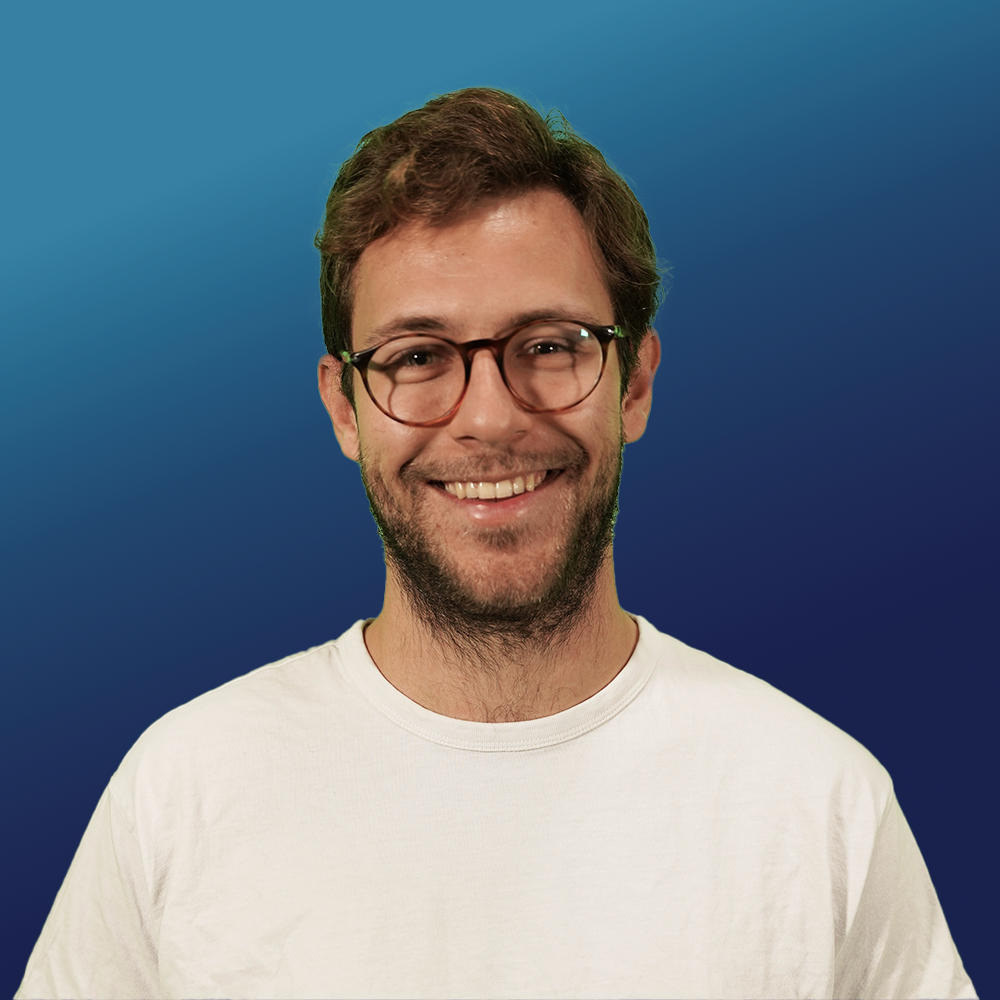
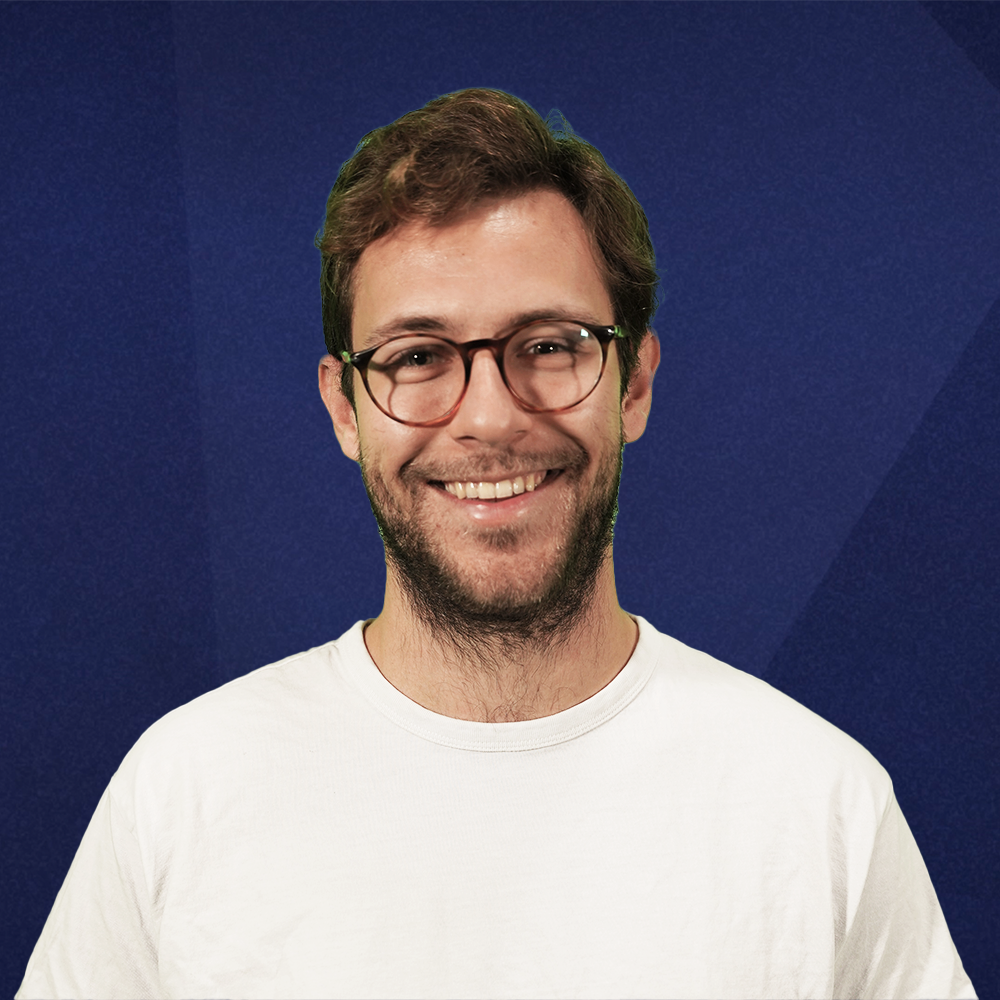
Styling Header & Bilder Team

diff --git a/about.html b/about.html
@@ -11,22 +11,27 @@
 
 <body class="font-sans">
     <header class="bg-cover" style="background-image: url('assets/img/background.png');">
-        <!-- Navigation -->
         <nav class="flex justify-between py-10 px-20 relative text-white">
             <div class="flex items-center">
             </div>
             <div class="flex text-lg space-x-10"> 
-                <a href="index.html" style="transition: font-weight 0.2s;" onmouseover="this.style.fontWeight='bold';" onmouseout="this.style.fontWeight='normal';">MEETTIME</a>
-                <a href="about.html" style="transition: font-weight 0.2s;" onmouseover="this.style.fontWeight='bold';" onmouseout="this.style.fontWeight='normal';">ABOUT</a>
+                <a href="index.html" class="relative">
+                    <span class="border-2 border-transparent p-2 px-4 transition duration-200 hover:border-white hover:font-semibold hover:p-2 hover:px-4">MEETTIME</span>
+                </a>
+                <a href="about.html" class="relative">
+                    <span class="border-2 border-transparent p-2 px-4 transition duration-200 hover:border-white hover:font-semibold hover:p-2 hover:px-4">ABOUT</span>
+                </a>
             </div>
         </nav>
     </header>
     
     
     
+    
+    
 
     <div class="container mx-auto p-20 text-center items-center">
-        <h1 class="text-3xl font-semibold text-gray-800 mb-6">ÜBERS PROJEKT</h1>
+        <h1 class="text-3xl font-semibold text-gray-800 mb-6">DAS PROJEKT</h1>
         <!-- <p class="text-xl font-bold">Was machen die Unihockey Nationalspieler/-innen während der Sommerpause, wenn keine Spiele auf dem Programm stehen?</p> <br> -->
         <p>Seit über 60 Jahren werden Persönlichkeiten in Form von Portraits vorgestellt. Das lineare Frage-Antwort Pingpong ist nicht mehr speziell. Die Fragen und Antworten, das Setting und die Kameraführung wiederholen sich. Das Format sticht nicht mehr aus der Masse. Als wir den Auftrag von swissunihockey bekamen Portraits zu erstellen, wussten wir, dass wir das Format updaten und unkonventionell in einem neuen Setting durchführen wollten. <br><br>
         Deshalb haben wir versucht mit unseren "Portraits" einen zusätzlichen Mehrwert zu schaffen. Wir haben das Interview in eine Aktivität verpackt. So rückt das Interview für den Portraitierten immer mehr in den Hintergrund, was dem Interview eine Prise Frische verpasst. Es entsteht ein unaufgezwungenes Gespräch. Ganz nach dem Grundsatz: "Handlung macht Sympathie" wird die Person nahbarer. </p>
@@ -50,6 +55,7 @@
             </div>
         </div>
     </div>
+
 
     <footer class="px-20 pt-5 pb-5 text-black flex items-center justify-between">
         <div>

diff --git a/projekt.html b/projekt.html
@@ -34,19 +34,23 @@
 
 </head>
 
-<body class="font-sans">
+<body class="flex flex-col min-h-screen font-sans">
     <header class="bg-cover" style="background-image: url('assets/img/background.png');">
-        <!-- Navigation -->
         <nav class="flex justify-between py-10 px-20 relative text-white">
             <div class="flex items-center">
             </div>
             <div class="flex text-lg space-x-10"> 
-                <a href="index.html" style="transition: font-weight 0.2s;" onmouseover="this.style.fontWeight='bold';" onmouseout="this.style.fontWeight='normal';">MEETTIME</a>
-                <a href="about.html" style="transition: font-weight 0.2s;" onmouseover="this.style.fontWeight='bold';" onmouseout="this.style.fontWeight='normal';">ABOUT</a>
+                <a href="index.html" class="relative">
+                    <span class="border-2 border-transparent p-2 px-4 transition duration-200 hover:border-white hover:font-semibold hover:p-2 hover:px-4">MEETTIME</span>
+                </a>
+                <a href="about.html" class="relative">
+                    <span class="border-2 border-transparent p-2 px-4 transition duration-200 hover:border-white hover:font-semibold hover:p-2 hover:px-4">ABOUT</span>
+                </a>
             </div>
         </nav>
     </header>
 
+    <div class="flex-1">
     <div class="grid grid-flow-row p-20">
         <div class="flex-container">
             <iframe class="video" frameborder="0" allowfullscreen></iframe>
@@ -56,6 +60,7 @@
                 <p class="text-lg mb-8"></p>
             </div>
         </div>
+    </div>
     </div>
 
     <footer class="px-20 pt-5 pb-5 text-black flex items-center justify-between">

diff --git a/index.html b/index.html
@@ -90,7 +90,7 @@
 <body class="font-sans">
     <header class="relative h-screen">
 
-        <!-- Hintergrund (Full Screen) -->
+        <!-- Hintergrundvideo -->
         <div class="absolute inset-0">
             <video autoplay muted loop class="w-full h-full object-cover">
                 <source src="assets/videos/hintergrund.mp4" type="video/mp4">
@@ -102,16 +102,19 @@
             <div class="flex items-center">
             </div>
             <div class="flex text-lg space-x-10"> 
-                <a href="about.html" style="transition: font-weight 0.2s;" onmouseover="this.style.fontWeight='bold';" onmouseout="this.style.fontWeight='normal';">ABOUT</a>
+                <a href="about.html" class="relative">
+                    <span class="border-2 border-transparent p-2 px-4 transition duration-200 hover:border-white hover:font-semibold hover:p-2 hover:px-4">ABOUT</span>
+                </a>
             </div>
         </nav>
     </header>
 
 
 
-    <!-- Video content will be loaded here -->
+
+    <!-- Einzelne Videos -->
     <div class="video-grid">
-        <!-- Video elements will be generated here -->
+        <!-- Videos werden hier geladen -->
     </div>
 
 
